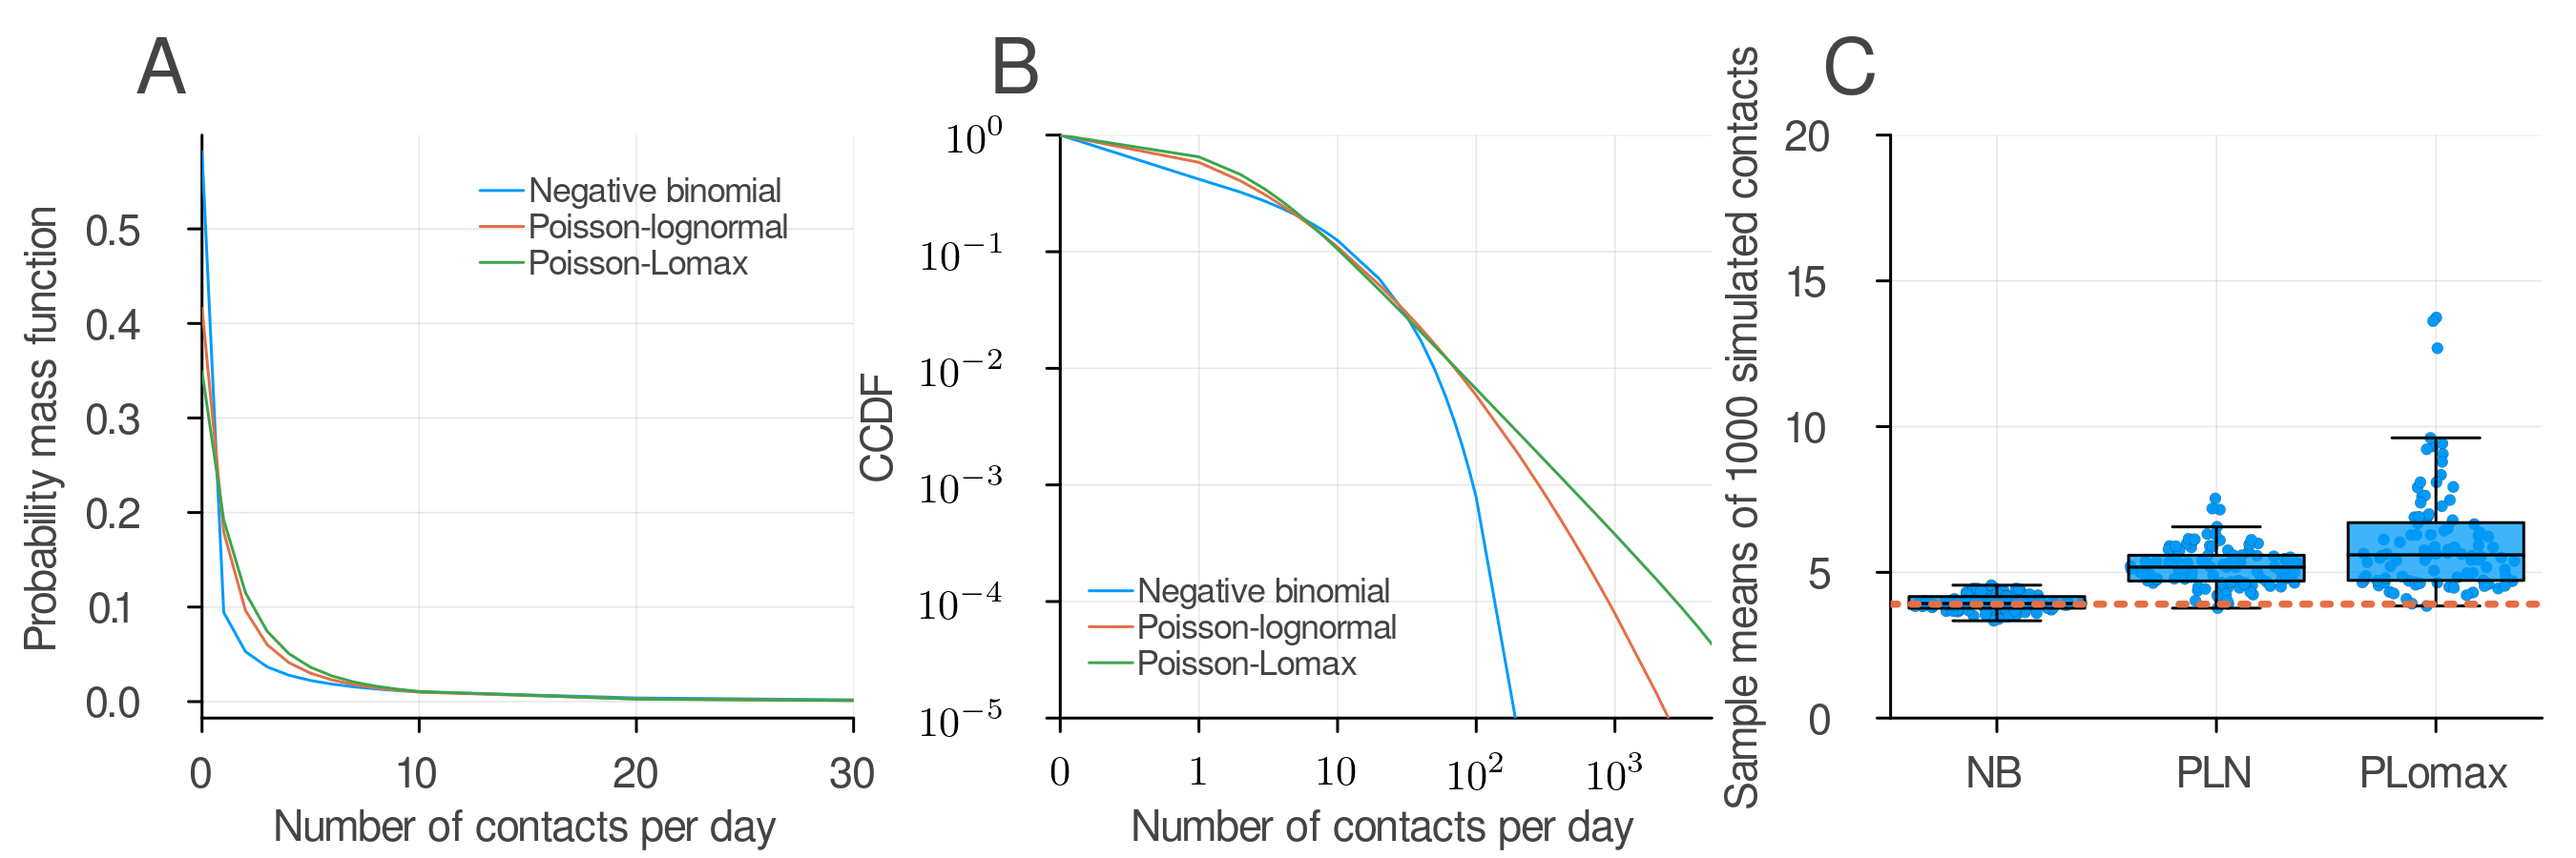
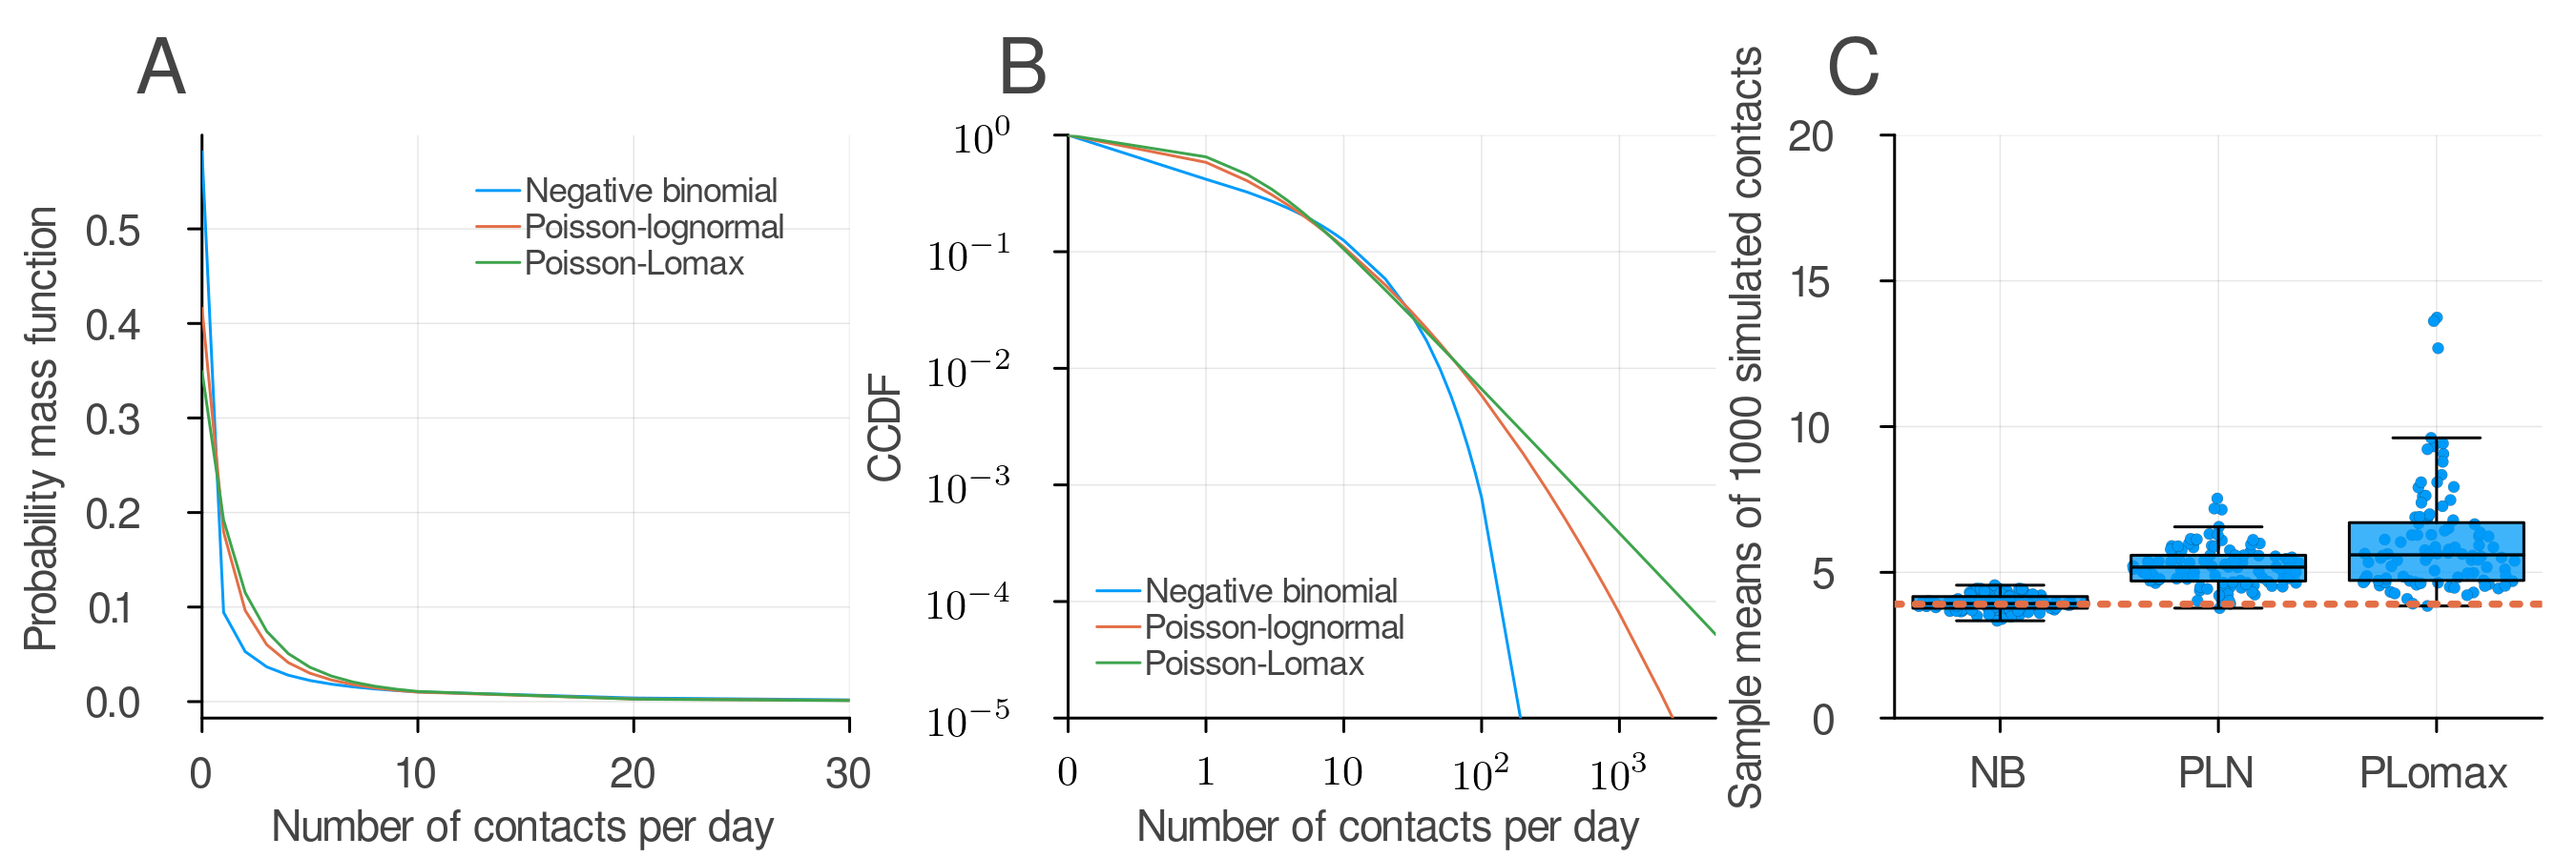
Raise CCDF truncation to 200,000 and remove dead code
- Add CCDF_K_MAX = 200_000 for model CCDFs and the convoluted pmf; the
  Lomax-tail deficit at 10^4 drops from 42% to 2.4%, so the conv figure no
  longer bends down. Cache one tail-sum vector per distribution, identical
  to the old loop at the old K.
- Regenerate the no-fit convolution summary and the conv, Figure1 and
  fitted Poisson-Lomax figures.
- Remove uncalled functions, duplicate Lomax and ZeroTruncConvolutedDist
  definitions, unused imports and priors, and the single-chain fallback in
  get_CoMix2_all_dist. Add get_models() for the model list.
- Fix the reversed Leung survey-mode docstring.

diff --git a/ReadMe.md b/ReadMe.md
@@ -100,7 +100,7 @@ The analysis pipeline consists of Jupyter notebooks in `src/` that must be run s
 
 4. **Additional CoMix Analysis** (`src/4j_comix2_additional.ipynb`):
    - CoMix-specific bootstrap resampling and uncertainty quantification
-   - Convolution of home and non-home distributions, truncated at K = 20,000
+   - Convolution of home and non-home distributions, truncated at K = 200,000
    - Outputs to `dt_intermediate_bootstrap/`
    - Simulations and bootstrap data are seeded (`seed` keyword, default 1234)
    - The bootstrap fits are commented out in the notebook. They take several hours
